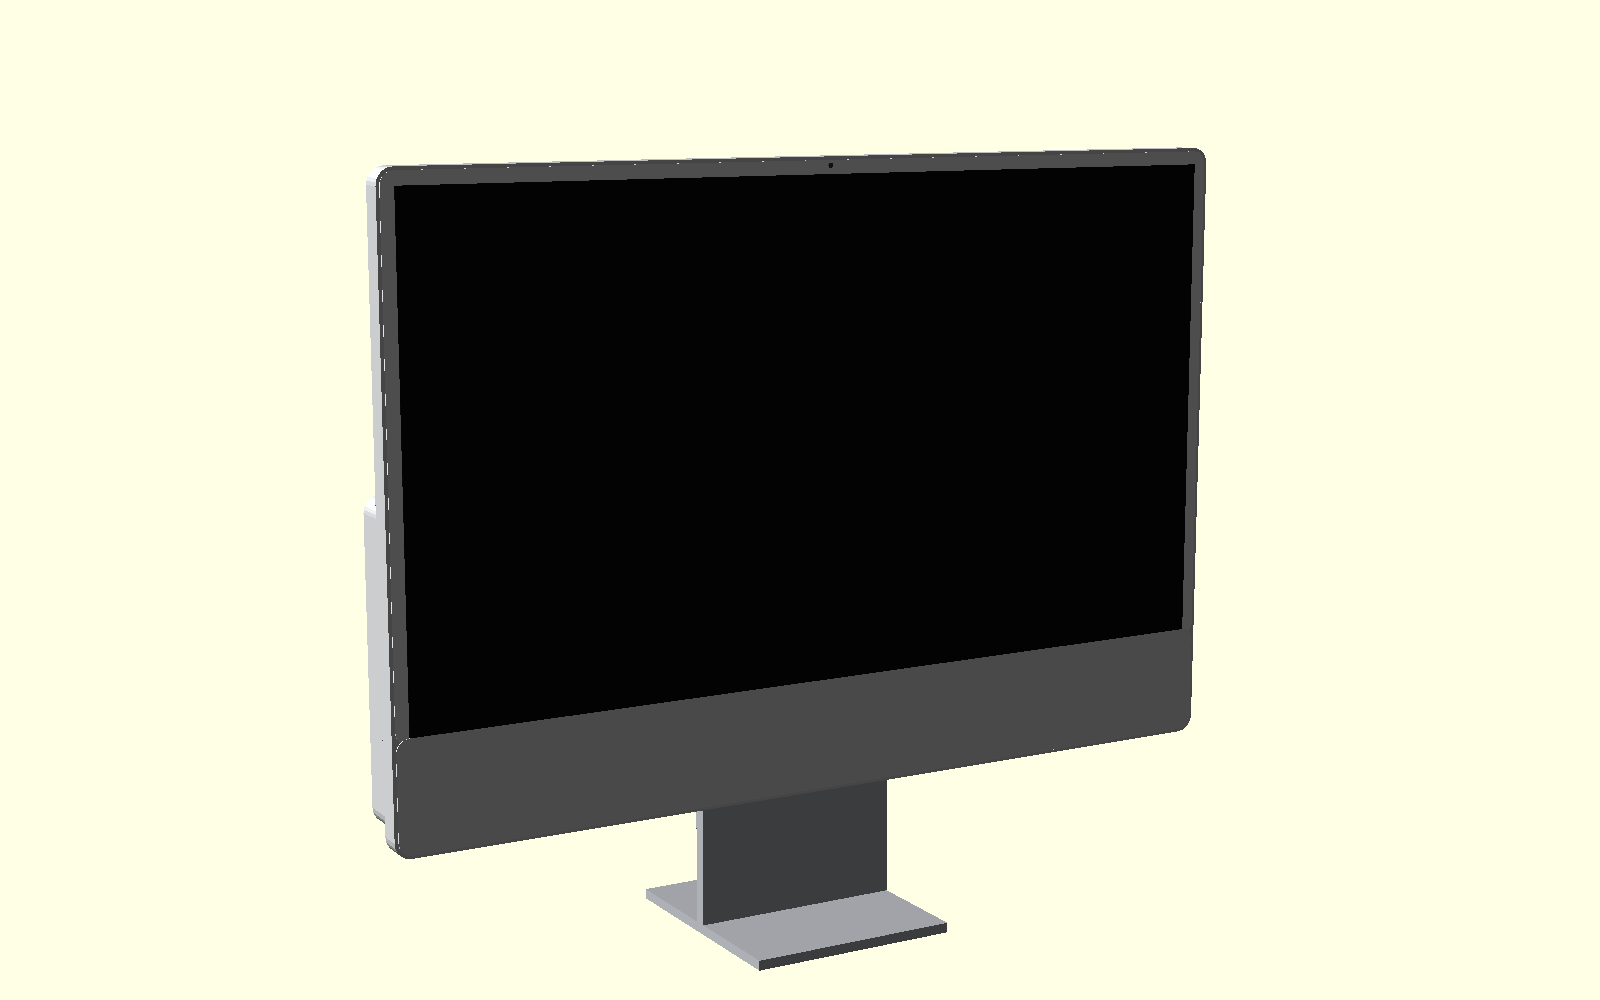
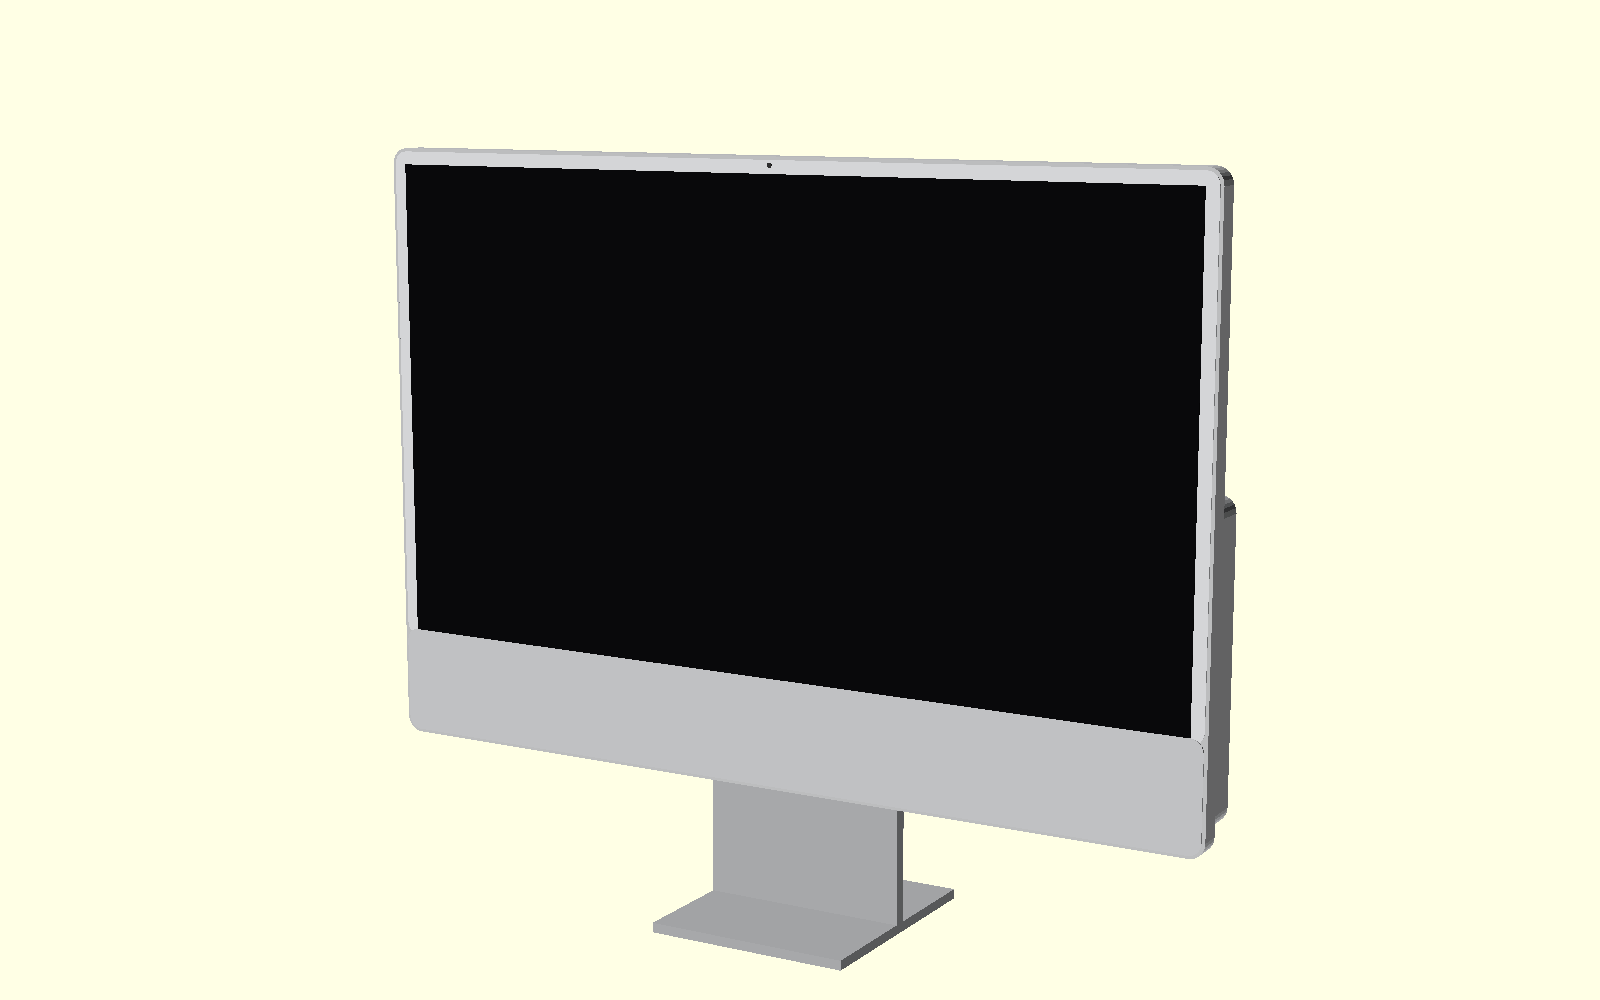
iMac M6の公式/非公式調査を記録し、公式7色と画像比率をモデルに反映
Claude-Session: https://claude.ai/code/session_01HbAbrZKUvZxhmzCz9B9StP

Changed region(s): [[0.2188, 0.124, 0.7812, 0.992]]

diff --git a/docs/research.md b/docs/research.md
@@ -1,0 +1,57 @@
+# iMac(24インチ, M6, 2026) 調査記録
+
+調査日: 2026-11-03。**公式を主、非公式は補助**。非公式情報は「独立した5件以上で一致」したものだけを確定扱いにした。
+
+## A. 公式情報 (Apple)
+| 項目 | 内容 | 出典 |
+|---|---|---|
+| 発表/発売 | 2026-10-27発表, 予約10-28(日本は10-29), 発売11-06 | Apple Newsroom(米) / Apple予約ページ |
+| 価格 | 米: $1,499(10コア) / $1,699(12コア)。日本(税込, 報道): 249,800円 / 289,800円 | Apple Newsroom(米のみ記載) / ITmedia, ケータイWatch |
+| チップ | M6。10C CPU+10C GPU / 12C+12C。Neural Engine 16コア×2、帯域170GB/s | apple.com/jp/imac/specs |
+| ディスプレイ | 24"(実測23.5") 4480x2520 218ppi 500nit P3 True Tone。Nano-textureは12コアのみ | 同上 |
+| ポート | 10コア: TB/USB4×2 / 12コア: TB4×4。3.5mm。2.5GbEは12コア標準 | 同上 / Newsroom |
+| 無線 | Wi-Fi 7 / Bluetooth 6 / Thread(N1) | 同上 |
+| 寸法 | 幅54.7cm 高さ46.1cm スタンド奥行14.7cm 幅13cm。**M4と同一数値** | 同上 / support.apple.com(M4: 121557) |
+| 重量 | 4.42kg(10C) / 4.44kg(12C) | 同上 |
+| 電源 | 143W 外付けACアダプタ, マグネット式コネクタ | 同上 |
+| カメラ/音 | 12MPセンターフレーム, 3マイク, 6スピーカー(ウーファー2組+ツイーター2) | 同上 |
+| 色(7色) | ブルー/パープル/ピンク/オレンジ/イエロー/グリーン/シルバー | 同上 |
+| 修理構成(M4) | 修理マニュアル項目: ディスプレイ, スタンド, VESAアダプタ, USB-Cボード, ロジックボードカバー(EMIシールド), オーディオボード, ファン, Wi-Fi/BTアンテナ, カメラ, フレックスケーブル類, ロジックボード, バッテリー, 筐体 | support.apple.com/121518 |
+| ファン(M4 4ポート) | 左右2基。ロジックボードの下に位置し、2基セットで交換 | support.apple.com/120967 |
+| 公式に未記載 | 厚さ(M1〜M6とも公式仕様ページに記載なし), 消費電力, 内部配置図, M6のTDP | — |
+
+### 公式画像から読み取ったデザイン (全7色の前面/背面/側面を取得して確認)
+- 前面: 白に近い細ベゼル(全色共通 #EDEEF0)。画面下に**色付きの淡色チン**。上部中央にカメラ。
+- 背面: 彩度の高い本体色。中央上寄りにロゴ。**左下に細い縦スロット4つ**(USB-C)。
+- スタンド: 本体より淡い色の一枚板アルミ。背面に回転軸(ヒンジ)の丸い穴。側面から見ると傾斜した脚+薄い足板。画面はチルト調整可能。
+- 実測色(公式画像から採取, 背面/スタンド/チン):
+  青 #5882B2/#9EB2CD/#BACEE9, 紫 #8581B4/#ACA3C0/#C9C5E6, ピンク #E16280/#E7A9B6/#FFCFDB, オレンジ #E5734E/#F0B498/#FFCCAF, 黄 #EFD344/#DCCB97/#FDEEB7, 緑 #41965F/#A2BFAD/#B9D8C6, 銀 #D2D3D5/#BBBCBE/#D7D8DA。
+- 前面ガラスの比率(銀の公式画像から測定): 本体 547x約375mm, 側/上ベゼル約10-12mm, チン約68mm。
+
+## B. 非公式情報の検証 (独立5件以上の一致で確定)
+注意: 内部構造の記事は**すべて 2021年M1 iMac の iFixit 分解を元にした報道**。M4/M6の分解記事は見つからず(M6のMac miniの分解のみ)。報道は互いに元ネタが同一なので「独立した確認」ではなく、**確定度は限定的**。
+| 主張 | 一致した出典 | 件数 | 判定 |
+|---|---|---|---|
+| 本体の厚さ 約11.5mm | iFixit(M4ページ), APH Networks, Primetel, MacStories, MacRumors(M6ガイド, 「外観変更なし」) | 5 | **確定(M1〜M4。M6は同設計と報道のみ)**。Wikipediaは11mm(0.45in)と丸め表記 |
+| ロジックボードは下部チン内 | iFixit, Macworld, MacRumors, 9to5Mac, apfelpatient | 5 | **確定(M1)** |
+| ファン2基(上位構成)/ベースは1基 | iFixit, Macworld, MacRumors, 9to5Mac, apfelpatient, macandegg(+Apple公式ファンページ) | 6 | **確定** |
+| 前面は一枚ガラス+接着(クラシックiMac接着剤) | iFixit, MacRumors, apfelpatient, macandegg, 9to5Mac | 5 | **確定** |
+| 背面側に大きな薄い金属プレートが2枚 | iFixit, Macworld, MacRumors, 9to5Mac, apfelpatient, macandegg | 6 | **確定** |
+| そのプレートはスピーカー室 | iFixit, Macworld, macandegg | 3 | 未確定(9to5Macは用途不明と記載) |
+| 銅ヒートパイプ+短いヒートシンク2枚 | iFixit, Macworld, MacRumors, apfelpatient | 4 | **未確定(5未満)** |
+| Wi-Fi/BTアンテナはAppleロゴ裏 | MacRumors, apfelpatient, 9to5Mac | 3 | 未確定 |
+| ボタン電池2個 | iFixit, 9to5Mac, macandegg | 3 | 未確定 |
+| ディスプレイはLG製の可能性 | iFixit のみ | 1 | 未確定 |
+| M6 iMac の分解で内部構造が同じ | 見つからず | 0 | 不明 |
+| M6の外観はM4から変更なし | MacRumors, Gizmodo(M4と見分け困難), Xataka(寸法/重量同一表), Apple仕様(寸法同一) | 4 | 未確定(厚さ非公表のため) |
+
+## C. 取得できなかったもの
+- 公式のiMac厚さ・内部配置、M6の分解、消費電力(TDP)。
+- 一部サイトは403(AppleInsider, TweakTown, iPhone Wired)や404で本文未確認。検索結果の要約のみで、件数には入れていない。
+- Apple Newsroom日本語ページは取得できず、米国版で確認。日本価格は報道ベース。
+
+## D. 本設計への反映
+- 色: 全7色の実測値を `cad/imac_like_pc.scad` の `color_scheme` に反映。
+- 前面: 白ベゼル(#EDEEF0)+淡色チン、背面に細いスロット4つ(I/Oの見た目)。
+- 厚さ: iMacは11.5mm。市販パネル+背面板では実現できず、**本機は前面14mm+背面ポッドで総厚70mm**。
+- 内部構造は「チン内に小型基板+左右ファン」という公式/多数報道の方式と異なり、本機は市販ITX部品のため背面ポッドに集約。

diff --git a/docs/design.md b/docs/design.md
@@ -3,6 +3,7 @@
 目標: 現行最新iMacと同等以下の価格で、同等以上の性能+ゲーム可+拡張性。外観はiMac風、内部は市販品。
 
 ## 1. 調査結果: 現行最新 iMac (2026-11-03時点)
+詳細・出典・非公式情報の検証(5件一致ルール)は **`docs/research.md`** を参照。
 出典は公式(apple.com/jp)を主とし、報道・小売サイトで補完。
 | 項目 | 内容 | 出典 |
 |---|---|---|
@@ -67,7 +68,7 @@
 
 ## 6. 成果物
 - `cad/imac_like_pc.scad` : OpenSCAD 2021.01で構文確認済みの3Dモデル。`cutaway=true` で内部、`color_scheme` で色変更。
-- `render/*.png` : OpenSCADレンダリング(front, back, side, internal, front_blue)。
+- `render/*.png` : OpenSCADレンダリング(front, back, side, internal, lineup_front, lineup_back=公式全7色)。前面は光源の都合で `flip=true` で描画。
 - `concept/blueprint.svg` : 寸法入り設計図。`python3 tools/gen_drawing.py` で再生成。
 
 ## 7. 次のステップ
